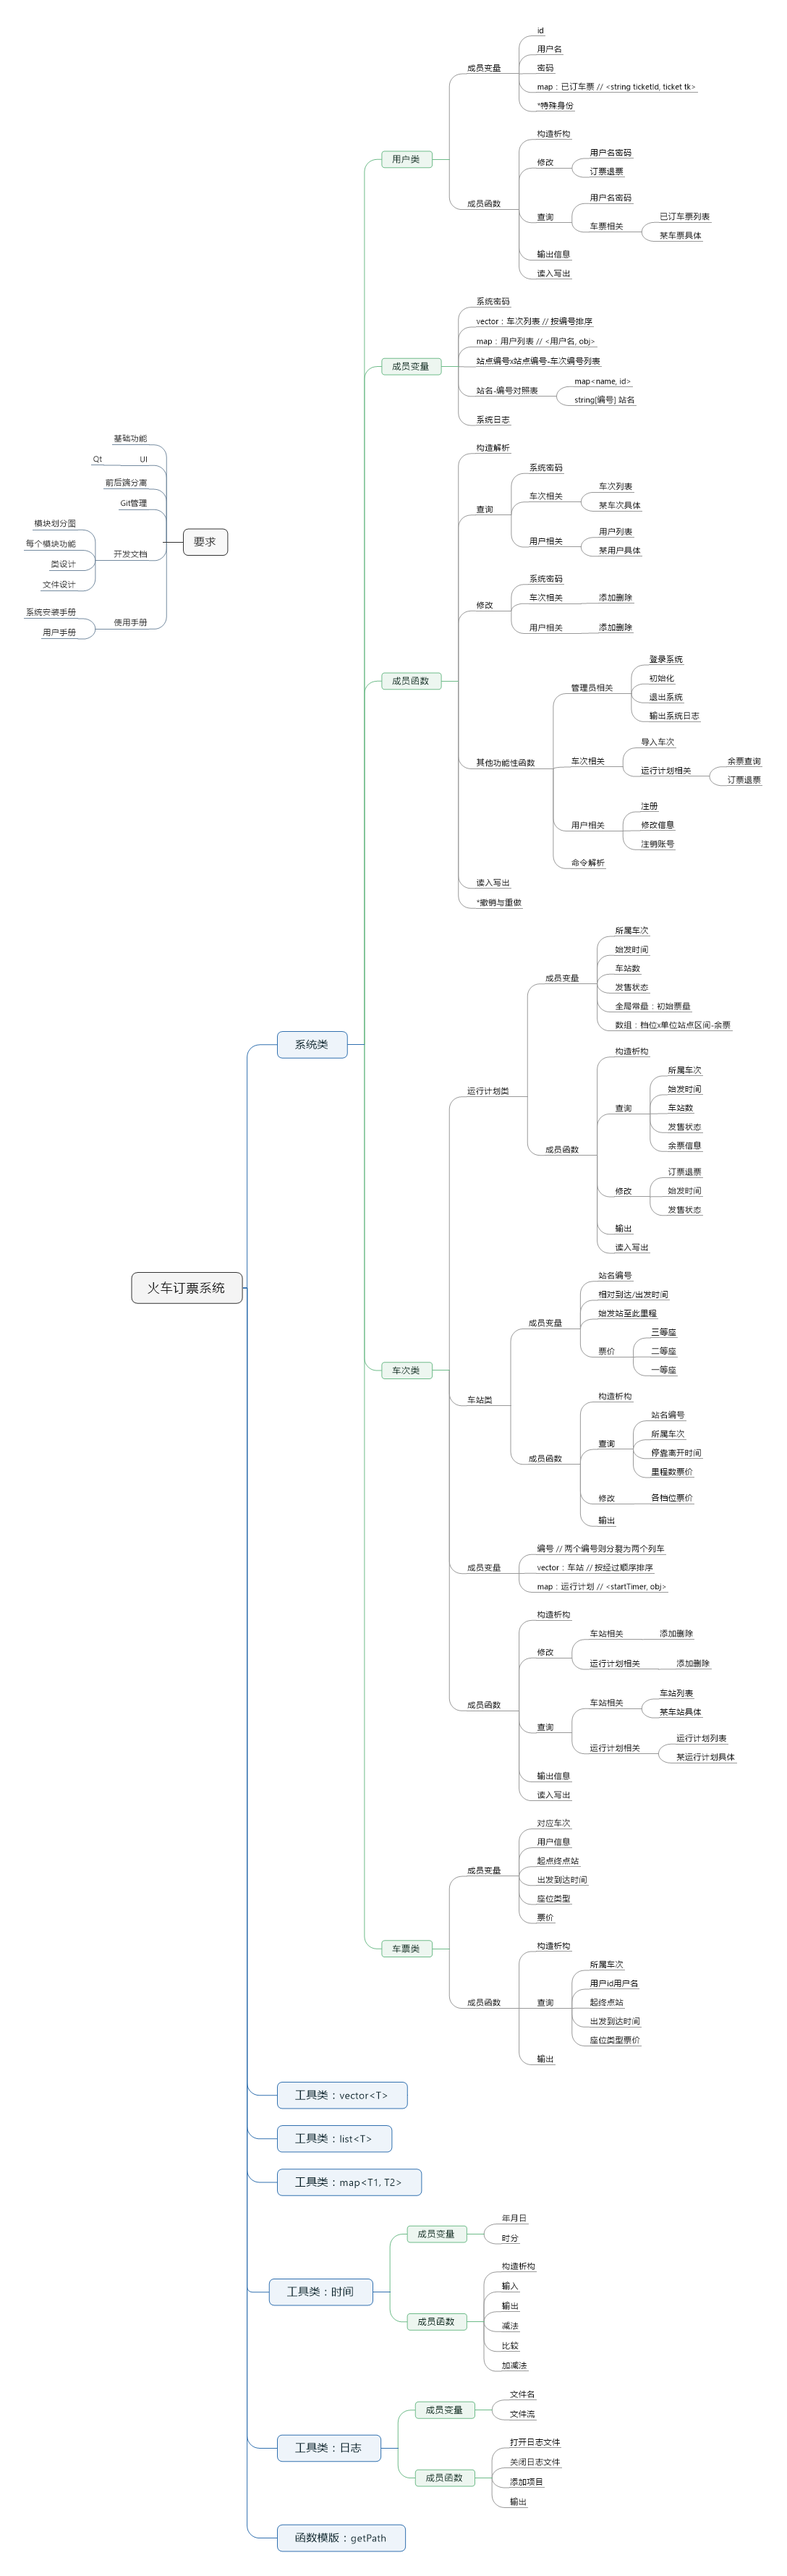
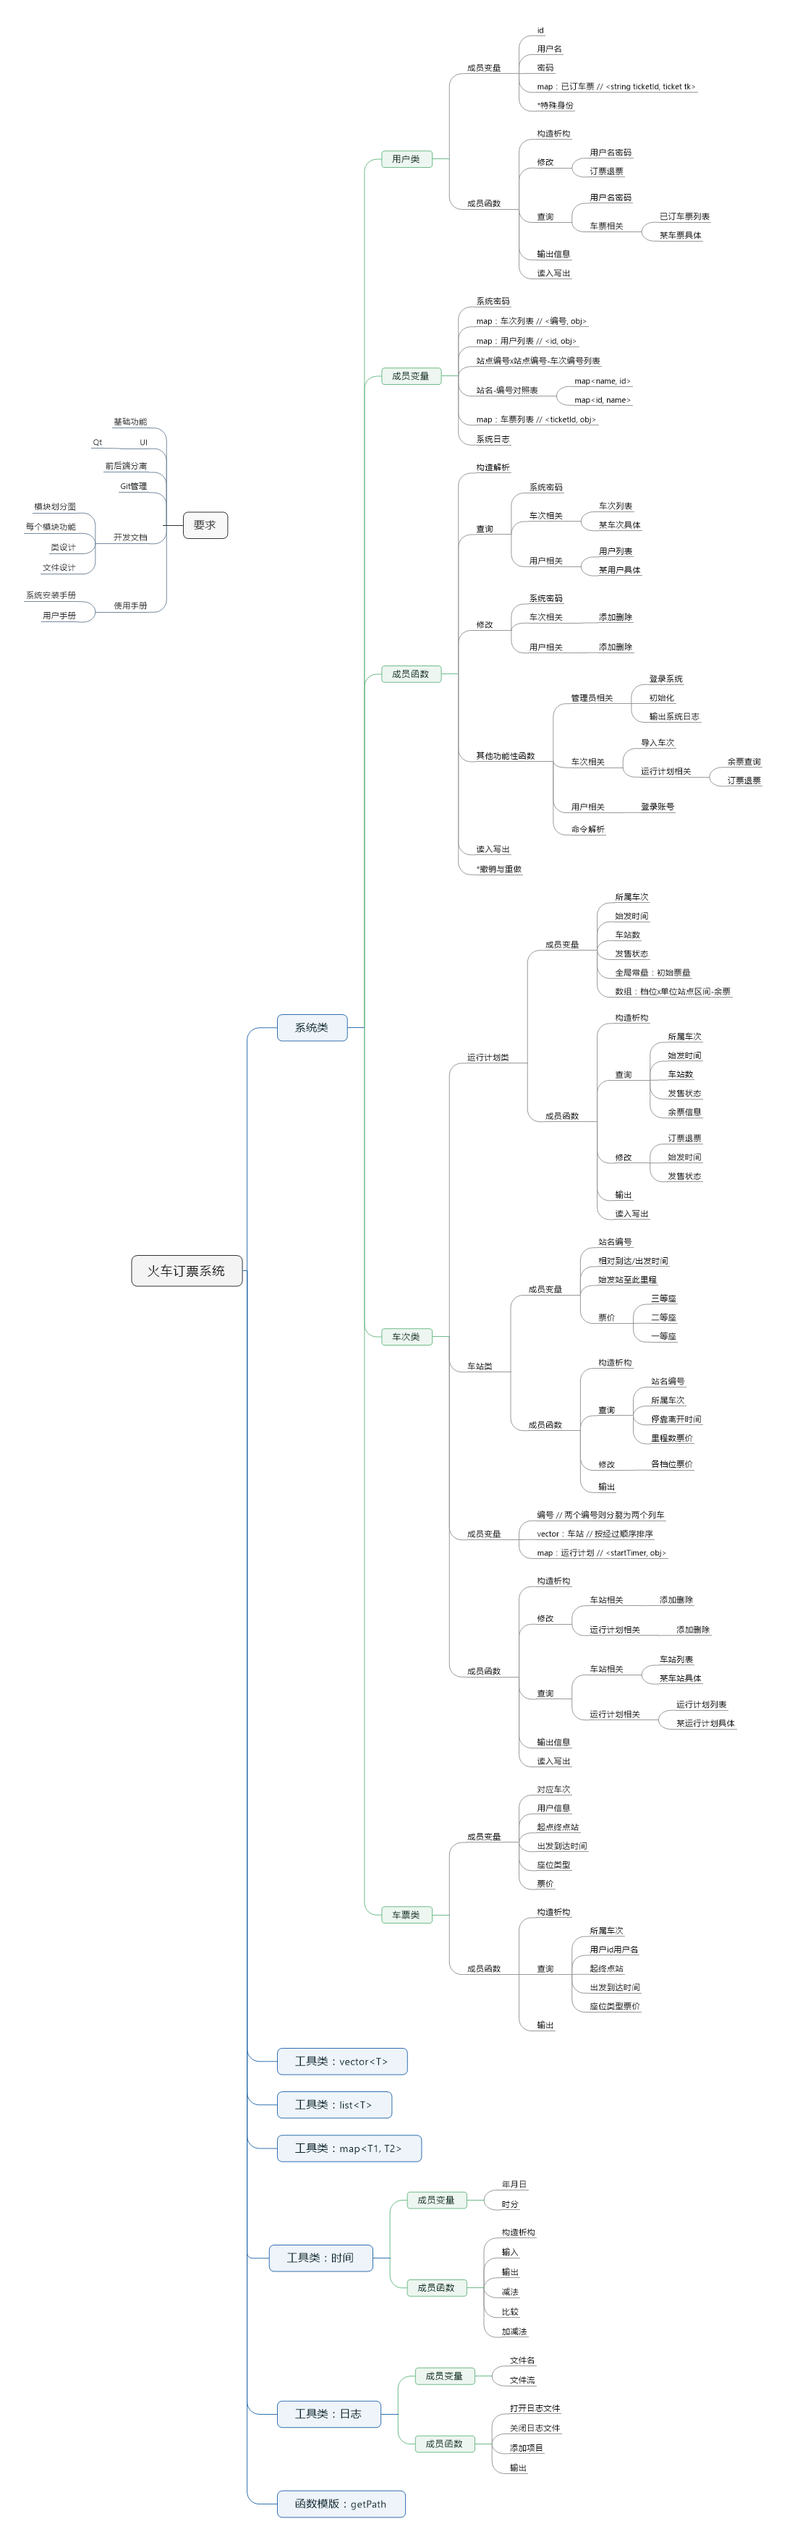
update requirement of system.hpp

diff --git a/devManual.md b/devManual.md
@@ -134,12 +134,24 @@ class myClass {
 | void | deleteTrain(const std::string &trainId) | 删除车次 |
 | void | insertUser(const user &us) | 添加用户 |
 | void | deleteUser(const std::string &userId) | 删除用户 |
+| bool | loginAsAdmin(const std::string &_password) const | 作为管理员登录 判断密码是否正确 |
+| void | initialize() | 初始化系统 包括重置系统密码 |
+| void | importTrain(std::ifstream &file) | 从file导入车次信息 |
+| void | query(const std::string &departStation, const std::string &stopStation, const timer &departTime) | 查询余票信息 |
+| const ticket & | orderTicket(const user &us, const std::string &trainId, const timer &departTime, int u, int v, int type) | 订票 |
+| void | disorderTicket(const ticket &tk) | 退票 |
+| bool | loginAsUser(const std::string &userId, const std::string &userPassword) | 作为用户登录 判断密码是否正确 |
+| user & | signUpUser(const std::string &userId, const std::string &userPassword, const std::string &userName) | 注册用户 |
+| void | **work(const std::string &str)** | 解析str内容并执行相应命令 同时将操作写入日志 |
+| void | writeOutLog(std::ostream &os) | 向os写出系统日志 |
 | void | readIn(std::ifstream &file) | 从file读入数据 |
 | void | writeOut(std::ofstream &file) | 向file写入数据 |
 
 注意:
 1. 函数尚不完全, 还需更新!
 2. 订票时要求生成一唯一的8位车票id, 可用字符: 'A'-'Z', '0'-'9'
+3. 车次列表要求用map存储, <string trainId, train tr>
+4. 用户列表要求用map存储, <string userId, user us>
 
 #### train
 
@@ -154,11 +166,11 @@ class myClass {
 | void | getStationList(std::ostream &os) const | 输出车站列表 |
 | station & | getStation(int index) | 返回运行线路上的第index个车站 |
 | void | getPlanList(std::ostream &os) | 输出运行计划列表 |
-| plan & | getPlan(const timer &startTime) | 返回始发时间为startTime的运行计划 |
+| plan & | getPlan(const timer &departTime) | 返回始发时间为departTime的运行计划 |
 | void | pushStation(const station &st) | 添加站点到运行线路末尾 若该站点信息不合法 throw invalid_station(); |
 | void | popStation() | 删除运行线路末尾的站点 |
 | void | insertPlan(const plan &pl) | 添加运行计划 |
-| void | deletePlan(const timer &startTime) | 删除运行计划 |
+| void | deletePlan(const timer &departTime) | 删除运行计划 |
 | friend std::ostream & | operator<<(std::ostream &os, train &obj) | 输出车次编号, 车站列表及车站信息, 运行计划列表及运行计划信息 |
 | void | readIn(std::ifstream &file) | 从file读入数据 |
 | void | writeOut(std::ofstream &file) const | 向file写入数据 |
@@ -199,17 +211,17 @@ class myClass {
 | return type | method | description |
 |:----------:|:---------------:|:----------:|
 | / | plan() | 默认构造 |
-| / | plan(const std::string &_train, const timer &_startTime, int stationNumber, bool _status) | 构造函数 |
+| / | plan(const std::string &_train, const timer &_departTime, int stationNumber, bool _status) | 构造函数 |
 | / | plan(const plan &other) | 拷贝构造 |
 | plan & | operator=(const &other) | 赋值 |
 | const std::string & | getTrain() const | 返回所属的车次 |
-| const timer & | getStartTime() const | 返回始发时间 |
+| const timer & | getDepartTime() const | 返回始发时间 |
 | int | getStationNumber() const | 返回所属车次包含的车站总数 |
 | bool | getStatus() const | 返回发售状态 |
 | int | getLeftTickets(int type, int u, int v) const | 返回从该车次uth站点到vth站点type类型座位剩余票数 特殊地若传入不合法则返回0 |
 | void | orderTicket(int type, int u, int v) | 订票 修改余票信息 |
 | void | disorderTicket(int type, int u, int v) | 退票 修改余票信息 |
-| void | modifyStartTime() | 修改始发时间 |
+| void | modifyDepartTime() | 修改始发时间 |
 | void | modifyStatus(bool newStatus) | 修改售票状态 |
 | friend std::ostream & | operator<<(std::ostream &os, const station &obj) | 输出所属车次, 始发时间, 表格形式的余票信息, 发售状态 |
 | void | readIn(std::ifstream &file) | 从file读入数据 |
